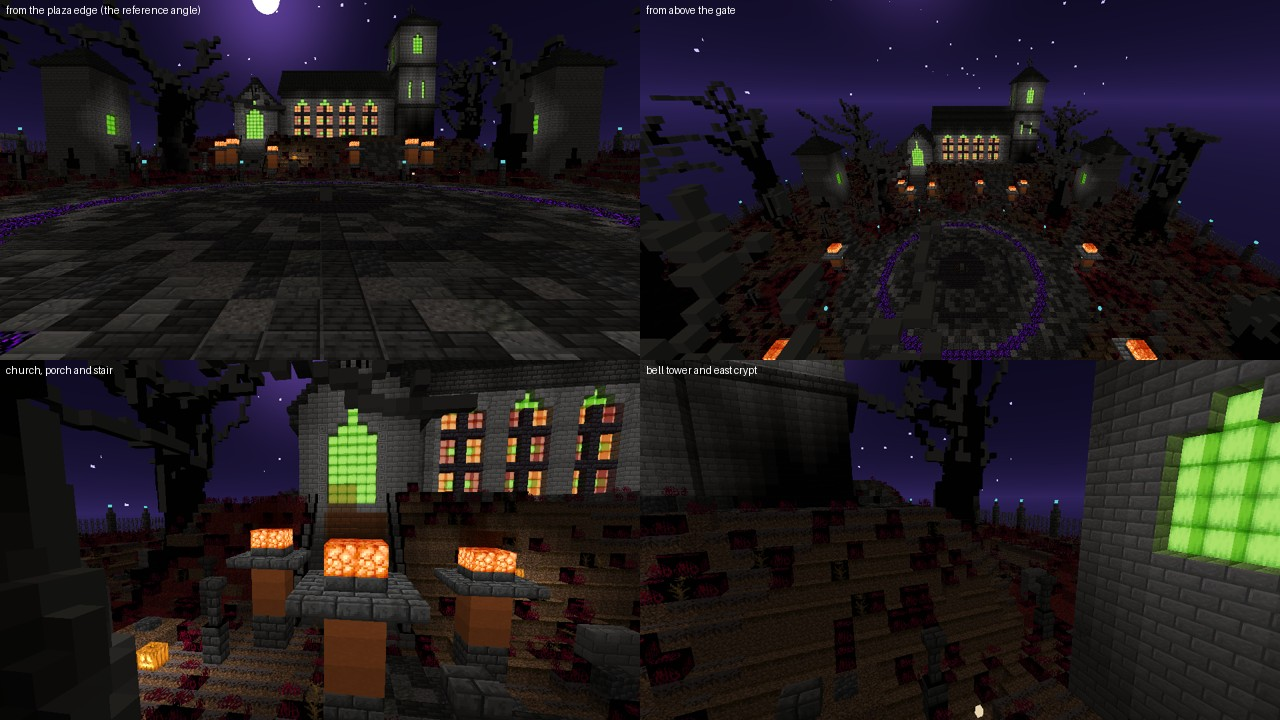
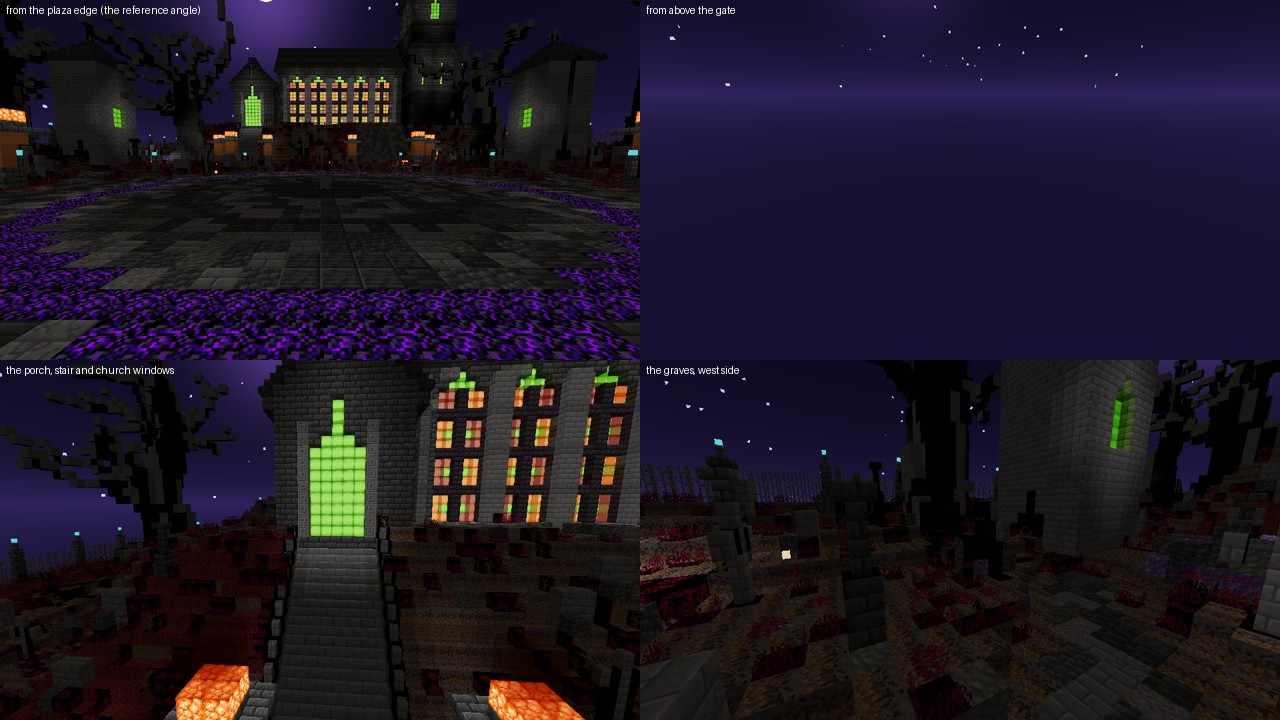
World Boss graveyard revision 2: taller church and hill, denser graves, blue-violet stone, purple-red soil only, symmetric flames; real-client findings in the handoff

diff --git a/tools/world_boss_graveyard/graveyard.py b/tools/world_boss_graveyard/graveyard.py
@@ -1,5 +1,5 @@
 #!/usr/bin/env python3
-"""The World Boss graveyard: an open night-time churchyard, 128 x 72 x 128, for the CobbleRaids World Boss arena.
+"""The World Boss graveyard: an open night-time churchyard, 128 x 96 x 128, for the CobbleRaids World Boss arena.
 
     python tools/world_boss_graveyard/graveyard.py [--out validation/schematics] [--npz grid.npz] [--check]
 
@@ -8,7 +8,7 @@ terraced hill with three tall stained-glass windows glowing red, orange and gree
 orange flame pillars, tombstones in purple-red grass, gnarled leafless trees and two small crypt towers behind an iron fence.
 
 The arena contract (CobbleRaids docs/WORLD-BOSS-DESIGN.md 12c): the boss stands at a `cobbleraids:world_boss_spawn` marker, players warp to a
-`cobbleraids:world_boss_entrance` marker, the arena radius is 96. The plaza (centre 64, 86) is open ground, 20 blocks clear on every side and open to the
+`cobbleraids:world_boss_entrance` marker, the arena radius is 96. The plaza (centre 64, 90) is open ground, 20 blocks clear on every side and open to the
 sky; the sky, the moon and the time of day belong to the world, not to this file. No block entity is used.
 """
 from __future__ import annotations
@@ -22,16 +22,16 @@ from pathlib import Path
 
 import numpy as np
 
-W, H, D = 128, 72, 128
+W, H, D = 128, 96, 128
 S0 = 12                 # the top block of the plaza and the avenue
-LIFT = 10
+LIFT = 12
 T = S0 + LIFT           # the top block of the church terrace
 AIR = "minecraft:air"
-CX, CZ = 64, 86         # the plaza centre and the boss
+CX, CZ = 64, 90         # the plaza centre and the boss
 PLAZA_RX, PLAZA_RZ = 27, 23
-TERRACE = (30, 104, 8, 38)          # x0, x1, z0, z1 of the flat terrace the church stands on
+TERRACE = (28, 112, 6, 38)          # x0, x1, z0, z1 of the flat terrace the church stands on
 SPAWN = (CX, S0 + 1, CZ)
-ENTRANCES = [(60, S0 + 1, 116), (64, S0 + 1, 118), (68, S0 + 1, 116), (64, S0 + 1, 112)]
+ENTRANCES = [(60, S0 + 1, 120), (64, S0 + 1, 122), (68, S0 + 1, 120), (64, S0 + 1, 117)]
 
 MARKER_SPAWN = "cobbleraids:world_boss_spawn"
 MARKER_ENTRANCE = "cobbleraids:world_boss_entrance"
@@ -142,11 +142,11 @@ def near_segment(x: float, z: float, a: tuple, b: tuple) -> float:
     return math.hypot(x - (ax + t * dx), z - (az + t * dz))
 
 
-PATHS = [((64, 127), (64, 106), 3.6),           # the avenue from the gate to the plaza
-         ((64, 64), (48, 52), 2.8),             # to the porch stair
-         ((64, 64), (80, 52), 2.8),             # to the wide stair
-         ((40, 86), (22, 62), 1.8),             # to the west crypt
-         ((88, 86), (106, 62), 1.8)]            # to the east crypt
+PATHS = [((64, 127), (64, 110), 3.6),          # the avenue from the gate to the plaza
+         ((64, 66), (46, 56), 2.8),             # to the porch stair
+         ((64, 66), (80, 56), 2.8),             # to the wide stair
+         ((40, 90), (22, 66), 1.8),             # to the west crypt
+         ((88, 90), (106, 66), 1.8)]            # to the east crypt
 
 
 def path_distance(x: int, z: int) -> float:
@@ -194,13 +194,11 @@ def blob(x: int, z: int, scale: float, salt: float) -> float:
 
 
 def turf(x: int, z: int) -> str:
-    red, grey = blob(x, z, 0.21, 1.0), blob(x, z, 0.17, 5.0)
-    if red > 0.66:
+    red = blob(x, z, 0.21, 1.0)
+    if red > 0.62:
         return NYLIUM
-    if grey > 0.68:
-        return PODZOL
-    if noise(x, z, 5) < 70:
-        return COARSE
+    if noise(x, z, 5) < 45:
+        return TUFF
     return MYCELIUM
 
 
@@ -245,7 +243,7 @@ def inlay(g: Grid, height: np.ndarray) -> None:
 
 def scatter_plants(g: Grid, height: np.ndarray) -> None:
     """Purple-red undergrowth: crimson roots thick in the red patches, thinner elsewhere, a few dead bushes; only on soil, never on paving."""
-    soil = {MYCELIUM, PODZOL, COARSE, NYLIUM}
+    soil = {MYCELIUM, NYLIUM}
     for x in range(W):
         for z in range(D):
             y = int(height[x, z])
@@ -270,8 +268,7 @@ def flame_pillar(g: Grid, x: int, y: int, z: int) -> None:
     g.fill(x - 1, x + 2, y + 5, y + 5, z - 1, z + 2, slab("deepslate_brick"))
     g.fill(x, x + 1, y + 5, y + 5, z, z + 1, DEEP_BRICKS)
     g.fill(x, x + 1, y + 6, y + 6, z, z + 1, SHROOM)
-    g.fill(x, x + 1, y + 7, y + 7, z, z + 1, GLASS_ORANGE)
-    g.set(x, y + 8, z, GLASS_ORANGE)
+    g.fill(x, x + 1, y + 7, y + 8, z, z + 1, GLASS_ORANGE)
 
 
 def lamp_post(g: Grid, x: int, y: int, z: int) -> None:
@@ -296,7 +293,7 @@ def tombstone(g: Grid, x: int, y: int, z: int, kind: int, rng: random.Random) ->
         g.fill(x, x, y + 2, y + 3, z, z, wall("deepslate_brick"))
         g.set(x, y + 4, z, slab("deepslate_brick"))
     else:
-        g.fill(x - 1, x + 1, y, y, z - 1, z + 1, COARSE)
+        g.fill(x - 1, x + 1, y, y, z - 1, z + 1, COBBLED_DEEP)
         g.set(x, y + 1, z, slab("cobbled_deepslate"))
     del face
     # a candle on the soil beside many of them: a small warm light in the dark
@@ -312,7 +309,7 @@ def boulder(g: Grid, x: int, y: int, z: int, r: float, rng: random.Random) -> No
             for dy in range(0, int(ry) + 2):
                 if (dx / r) ** 2 + (dz / r) ** 2 + (dy / ry) ** 2 <= 1.0:
                     n = rng.random()
-                    g.set(x + dx, y + dy, z + dz, COBBLED_DEEP if n < 0.45 else TUFF if n < 0.7 else DEEPSLATE if n < 0.9 else STONE)
+                    g.set(x + dx, y + dy, z + dz, COBBLED_DEEP if n < 0.42 else TUFF if n < 0.62 else DEEPSLATE if n < 0.84 else "minecraft:amethyst_block" if n < 0.93 else STONE)
 
 
 # ---- trees ------------------------------------------------------------------------------------------------------------------------
@@ -375,12 +372,12 @@ def lancet(g: Grid, xc: int, y0: int, z: int, behind: int, rows: int, idx: int) 
     """A tall pointed stained-glass window in a wall along x: five wide, a lead mullion down the middle, lead transoms, a head that narrows to a point.
     Panes alternate orange and red with green accents; each is lit from behind (ochre for the warm glass, verdant for the green)."""
     def pane(dx: int, r: int) -> None:
-        lead = dx == 0 or r in (3, 7)
+        lead = dx == 0 or r in (3, 7, 11)
         if lead and r < rows:
             g.set(xc + dx, y0 + r, z, BLACKSTONE_BRICKS)
             g.set(xc + dx, y0 + r, z + behind, BLACKSTONE_BRICKS)
             return
-        green = (r in (1, 5) and abs(dx) == 1) or r >= rows
+        green = (r in (1, 5, 9) and abs(dx) == 1) or r >= rows
         colour = GLASS_LIME if green else (GLASS_RED if (r // 4 + (dx > 0) + idx) % 2 else GLASS_ORANGE)
         g.set(xc + dx, y0 + r, z, colour)
         g.set(xc + dx, y0 + r, z + behind, VERDANT if colour == GLASS_LIME else OCHRE)
@@ -402,10 +399,10 @@ def gable_end_x(g: Grid, x: int, z0: int, z1: int, y_eave: int, block: str) -> N
 
 
 def church(g: Grid) -> None:
-    nx0, nx1, nz0, nz1 = 52, 86, 14, 31          # the nave, outer faces
-    wall_top = T + 14
+    nx0, nx1, nz0, nz1 = 50, 90, 12, 31          # the nave, outer faces
+    wall_top = T + 18
     # walls: two blocks thick, hollow inside, a floor of dark tiles
-    g.fill(nx0, nx1, T, wall_top, nz0, nz1, STONE_BRICKS)
+    g.fill(nx0, nx1, T, wall_top, nz0, nz1, DEEP_BRICKS)
     g.air(nx0 + 2, nx1 - 2, T + 1, wall_top, nz0 + 2, nz1 - 2)
     g.fill(nx0 + 2, nx1 - 2, T, T, nz0 + 2, nz1 - 2, DEEP_TILES)
     for x in range(nx0, nx1 + 1):
@@ -418,10 +415,10 @@ def church(g: Grid) -> None:
                     g.set(x, y, z, MOSSY_BRICKS)
     # a plinth of darker stone round the foot
     for x in range(nx0, nx1 + 1):
-        g.fill(x, x, T + 1, T + 1, nz1, nz1, DEEP_BRICKS)
+        g.fill(x, x, T + 1, T + 1, nz1, nz1, STONE_BRICKS)
         g.fill(x, x, T + 1, T + 1, nz0, nz0, DEEP_BRICKS)
     # the roof, slate stairs, ridge along x
-    ridge_z0, ridge_z1 = 22, 23
+    ridge_z0, ridge_z1 = (nz0 + nz1) // 2, (nz0 + nz1) // 2 + 1
     for z in range(nz0 - 1, ridge_z0 + 1):
         y = wall_top + 1 + (z - (nz0 - 1))
         g.fill(nx0 - 1, nx1 + 1, y, y, z, z, stairs("deepslate_tile", "south"))
@@ -433,13 +430,13 @@ def church(g: Grid) -> None:
     ridge_y = wall_top + 1 + (ridge_z0 - (nz0 - 1)) + 1
     g.fill(nx0 - 1, nx1 + 1, ridge_y, ridge_y, ridge_z0, ridge_z1, slab("deepslate_tile"))
     for x in (nx0, nx1):
-        gable_end_x(g, x, nz0, nz1, wall_top + 1, STONE_BRICKS)
+        gable_end_x(g, x, nz0, nz1, wall_top + 1, DEEP_BRICKS)
     # buttresses and four tall lit windows on the long south wall (z = nz1), lamps in the wall behind the glass
-    for i, xc in enumerate((58, 65, 72, 79)):
-        lancet(g, xc, T + 2, nz1, -1, 10, i)
+    for i, xc in enumerate((56, 63, 70, 77, 84)):
+        lancet(g, xc, T + 2, nz1, -1, 14, i)
         for bx in (xc - 4, xc + 4):
-            g.fill(bx, bx, T + 1, T + 11, nz1 + 1, nz1 + 1, STONE_BRICKS)
-            g.set(bx, T + 12, nz1 + 1, stairs("stone_brick", "south"))
+            g.fill(bx, bx, T + 1, T + 15, nz1 + 1, nz1 + 1, STONE_BRICKS)
+            g.set(bx, T + 16, nz1 + 1, stairs("stone_brick", "south"))
     for x in range(nx0, nx1 + 1):                               # a string course under the windows' sills
         g.set(x, T + 1, nz1 + 1, slab("deepslate_brick", "top")) if g.get(x, T + 1, nz1 + 1) == AIR else None
     # a cross on the east gable and the roof's west end
@@ -460,9 +457,9 @@ def church(g: Grid) -> None:
 
 def porch(g: Grid) -> None:
     """A gabled porch on the west end, facing south, with a pointed doorway of green glass lit from behind, and the stair up to it."""
-    px0, px1, pz0, pz1 = 40, 51, 24, 38
-    wall_top = T + 9
-    g.fill(px0, px1, T, wall_top, pz0, pz1, STONE_BRICKS)
+    px0, px1, pz0, pz1 = 38, 49, 24, 38
+    wall_top = T + 12
+    g.fill(px0, px1, T, wall_top, pz0, pz1, DEEP_BRICKS)
     g.air(px0 + 2, px1 - 2, T + 1, wall_top, pz0 + 2, pz1 - 2)
     g.fill(px0 + 2, px1 - 2, T, T, pz0 + 2, pz1 - 2, DEEP_TILES)
     mid = (px0 + px1) // 2
@@ -479,15 +476,15 @@ def porch(g: Grid) -> None:
     # the south gable: a triangle of brick above the doorway
     for x in range(px0, px1 + 1):
         top = wall_top + 1 + (min(x - px0, px1 - x) - 0)
-        g.fill(x, x, wall_top + 1, top, pz1, pz1, STONE_BRICKS)
+        g.fill(x, x, wall_top + 1, top, pz1, pz1, DEEP_BRICKS)
     # the doorway: five wide, a pointed head, glass lit green
-    for r in range(11):
-        half = 2 if r < 7 else max(0, 2 - (r - 6))
+    for r in range(12):
+        half = 2 if r < 8 else max(0, 2 - (r - 7))
         for dx in range(-half, half + 1):
             g.set(mid + dx, T + 1 + r, pz1, GLASS_LIME)
             g.set(mid + dx, T + 1 + r, pz1 - 1, VERDANT)
     for dx in (-3, 3):
-        g.fill(mid + dx, mid + dx, T + 1, T + 8, pz1, pz1, CHISELED)
+        g.fill(mid + dx, mid + dx, T + 1, T + 10, pz1, pz1, CHISELED)
     # the stair: eight steps down to the plaza level, a rail of wall blocks either side
     for i in range(1, LIFT + 1):
         z = pz1 + i
@@ -507,9 +504,9 @@ def porch(g: Grid) -> None:
 
 def tower(g: Grid) -> None:
     """The bell tower beside the nave: tall, with lit slits, an open belfry with green glass and a pyramid roof under a cross."""
-    x0, x1, z0, z1 = 88, 98, 20, 32
-    top = T + 34
-    g.fill(x0, x1, T, top, z0, z1, STONE_BRICKS)
+    x0, x1, z0, z1 = 94, 106, 18, 32
+    top = T + 44
+    g.fill(x0, x1, T, top, z0, z1, DEEP_BRICKS)
     g.air(x0 + 2, x1 - 2, T + 1, top, z0 + 2, z1 - 2)
     for y in range(T + 1, top + 1):
         for x in (x0, x1):
@@ -519,19 +516,19 @@ def tower(g: Grid) -> None:
                     g.set(x, y, z, CRACKED_BRICKS)
                 elif n < 150:
                     g.set(x, y, z, MOSSY_BRICKS)
-    for y in (T + 11, T + 23):                                  # string courses
+    for y in (T + 12, T + 26, T + 33):                                  # string courses
         g.fill(x0 - 1, x1 + 1, y, y, z0 - 1, z1 + 1, DEEP_BRICKS)
         g.fill(x0 - 1, x1 + 1, y, y, z0 - 1, z1 + 1, DEEP_BRICKS)
     for xc in (x0 + 3, x1 - 3):                                 # two narrow green windows on the south face, high on the shaft
-        for r in range(5):
-            g.set(xc, T + 14 + r, z1, GLASS_LIME)
-            g.set(xc, T + 14 + r, z1 - 1, VERDANT)
+        for r in range(7):
+            g.set(xc, T + 15 + r, z1, GLASS_LIME)
+            g.set(xc, T + 15 + r, z1 - 1, VERDANT)
     mid_x, mid_z = (x0 + x1) // 2, (z0 + z1) // 2
     for r in range(6):                                          # the belfry: an arched opening on each face
         for dx in range(-1, 2):
             if r == 5 and dx != 0:
                 continue
-            y = T + 27 + r
+            y = T + 35 + r
             for (px, pz) in ((mid_x + dx, z1), (mid_x + dx, z0)):
                 g.set(px, y, pz, GLASS_LIME)
                 g.set(px, y, pz + (-1 if pz == z1 else 1), VERDANT)
@@ -555,7 +552,7 @@ def tower(g: Grid) -> None:
 
 def wide_stair(g: Grid) -> None:
     """The broad stair of rough stone up to the terrace east of the porch, with flame pillars at the foot and the head."""
-    x0, x1 = 74, 86
+    x0, x1 = 74, 88
     for i in range(1, LIFT + 1):
         z = 38 + i
         y = T - i
@@ -665,14 +662,14 @@ def build(seed: int = 31) -> tuple[Grid, np.ndarray]:
     porch(g)
     tower(g)
     wide_stair(g)
-    crypt_tower(g, 12, 52, "east")
-    crypt_tower(g, 108, 52, "west")
+    crypt_tower(g, 12, 56, "east")
+    crypt_tower(g, 108, 56, "west")
     fence(g, height)
     # flame pillars: the plaza, the avenue, both stairs; lamp posts along the avenue
-    for (x, z) in ((40, 106), (86, 106), (45, 56), (82, 56), (35, 86), (92, 86)):
+    for (x, z) in ((40, 110), (88, 110), (44, 60), (84, 60), (35, 90), (93, 90)):
         y = int(height[x, z])
         flame_pillar(g, x, y + 1, z)
-    for (x, z) in ((40, LIFT + 40), (52, LIFT + 40), (71, LIFT + 40), (88, LIFT + 40)):
+    for (x, z) in ((38, LIFT + 40), (50, LIFT + 40), (71, LIFT + 40), (90, LIFT + 40)):
         flame_pillar(g, x, int(height[x, z]) + 1, z)
     for z in range(120, 108, -6):
         for x in (58, 70):
@@ -690,9 +687,9 @@ def build(seed: int = 31) -> tuple[Grid, np.ndarray]:
             return False
         if TERRACE[0] - 3 <= x <= TERRACE[1] + 3 and TERRACE[2] - 3 <= z <= TERRACE[3] + 3:
             return False
-        if 36 <= x <= 52 and 36 <= z <= 52 or 72 <= x <= 90 and 36 <= z <= 50:
+        if 34 <= x <= 54 and 36 <= z <= 54 or 72 <= x <= 92 and 36 <= z <= 54:
             return False
-        if 8 <= x <= 24 and 48 <= z <= 64 or 104 <= x <= 120 and 48 <= z <= 64:
+        if 8 <= x <= 24 and 52 <= z <= 68 or 104 <= x <= 120 and 52 <= z <= 68:
             return False
         if 4 <= x <= W - 5 and 4 <= z <= D - 5:
             return True
@@ -700,12 +697,12 @@ def build(seed: int = 31) -> tuple[Grid, np.ndarray]:
 
     placed: list[tuple[int, int]] = []
     tries = 0
-    while len(placed) < 78 and tries < 4000:
+    while len(placed) < 150 and tries < 12000:
         tries += 1
         x, z = rng.randint(6, W - 7), rng.randint(40, D - 12)
-        if not free(x, z, 2.5):
+        if not free(x, z, 2.0):
             continue
-        if any(abs(x - px) < 4 and abs(z - pz) < 4 for px, pz in placed):
+        if any(abs(x - px) < 3 and abs(z - pz) < 3 for px, pz in placed):
             continue
         placed.append((x, z))
         y = int(height[x, z]) + 1
@@ -783,7 +780,7 @@ def check(g: Grid, height: np.ndarray) -> list[str]:
     for e in ENTRANCES[1:] + [SPAWN]:
         if e not in seen:
             problems.append(f"{e} is not reachable on foot from the first entrance")
-    for goal, label in (((48, T, 39), "the porch stair head"), ((80, T + 1, 36), "the terrace by the wide stair")):
+    for goal, label in (((43, T, 39), "the porch stair head"), ((80, T + 1, 36), "the terrace by the wide stair")):
         if not any(c[0] == goal[0] and c[2] == goal[2] and abs(c[1] - goal[1]) <= 1 for c in seen):
             problems.append(f"{label} cannot be reached on foot from the entrance")
     return problems

diff --git a/docs/handoff/world-boss-graveyard.md b/docs/handoff/world-boss-graveyard.md
@@ -4,14 +4,23 @@ An open, night-time churchyard for the CobbleRaids World Boss arena (`docs/WORLD
 a dark stone church on a terraced hill with four tall stained-glass windows (red, orange, green), a porch with a pointed green-lit doorway and a stair, a bell tower with green windows and
 a pyramid roof, a broad stair, orange flame pillars, tombstones and candles in purple-red grass, gnarled leafless trees, two small crypt towers and an iron fence with a gate.
 
-* **Generator**: `python tools/world_boss_graveyard/graveyard.py --blocks <loot_table/blocks dir> [--npz grid.npz]` writes `validation/schematics/world_boss_graveyard.schem` (128 x 72 x 128, about 305,000 blocks,
+* **Generator**: `python tools/world_boss_graveyard/graveyard.py --blocks <loot_table/blocks dir> [--npz grid.npz]` writes `validation/schematics/world_boss_graveyard.schem` (128 x 96 x 128, about 305,000 blocks,
   the origin is the north-west bottom corner, `seed` 31 gives the same graveyard every run) and checks it. Pictures: `python tools/halloween_tower/view.py --npz grid.npz <out_dir> name:x,y,z,yaw,pitch[,fov]`
   (absolute coordinates, a night sky with a moon, the game's own block light). Preview sheet: `docs/handoff/interiors/world-boss-graveyard.jpg`.
-* **Arena contract**: boss spawn marker `cobbleraids:world_boss_spawn` at (64, 13, 86) in the middle of the plaza; four `cobbleraids:world_boss_entrance` markers inside the gate, at (60,13,116), (64,13,118), (68,13,116) and
-  (64,13,112). Paste with a normal paste including air, then `/cobbleraids worldboss arena scan` finds the markers. The plaza is open to the sky with 20 blocks clear on every side and 14 high; the avenue runs
+* **Arena contract**: boss spawn marker `cobbleraids:world_boss_spawn` at (64, 13, 90) in the middle of the plaza; four `cobbleraids:world_boss_entrance` markers inside the gate, at (60,13,120), (64,13,122), (68,13,120) and
+  (64,13,117). Paste with a normal paste including air, then `/cobbleraids worldboss arena scan` finds the markers. The plaza is open to the sky with 20 blocks clear on every side and 14 high; the avenue runs
   gate to plaza; both stairs and the plaza are reachable on foot from every entrance (the generator proves it). Arena radius 96 covers the whole build.
 * **Checks** (all in the generator): markers stand on solid ground, the combat court is clear, on-foot reach, every block id is a real 1.21.1 block (or a CobbleRaids marker). No block entities.
 * **Night and light**: the sky, moon and time of day belong to the world or dimension, not to the schematic. Vanilla night is dark; a dedicated dimension type with `ambient_light` around 0.1 to 0.2
   would give the moonlit look of the reference. The build carries its own light: flame pillars, lamp posts round the plaza and along the avenue, candles at graves, lit pumpkins, glowing windows.
 * **Not done / unseen**: never pasted into a world or seen in a real client; trees and boulders are procedural and may want a second look; the church interior is a plain nave (sealed, no entrance);
   the old enclosed Mourning Court in ascensionDungeons is untouched and now superseded for this use.
+
+## Revision 2 and the real-client check (2026-10-29)
+
+* **Bigger**: the hill is 12 high, the nave 41 x 20 with 20-high walls and five tall lancets, the porch and the bell tower (13 wide, 44 high) taller, walls of blue-grey deepslate with lighter stone trim; about 150 graves.
+* **Real client**: a vanilla 1.21.1 client on a scratch server (`L:/claude-cobbleraids-work/gy-rig`, port 25570, RCON 25576, flat world, the schematic as the datapack structure `gy:graveyard`, pasted with
+  `/place template gy:graveyard 0 40 0` after `forceload add 0 0 127 127`; midnight, clear) showed the build as designed: the stained-glass mosaics, the green porch and doorway, flame pillars, lamp posts, the plaza
+  ring and the fence all read well. Two fixes came out of it: brown podzol and coarse dirt clashed with the purple-red palette (now mycelium and crimson nylium only), and the flame pillar's glass was lopsided.
+  Not fixed: the trees read as heavy dark silhouettes; vanilla night is very dark (use a dimension type with `ambient_light`).
+* **Not photographed after the fixes**: the owner's desktop was in use, so no further screen captures were taken. The rig server is still the place to look: join `127.0.0.1:25570` with a vanilla 1.21.1 client (offline mode).
